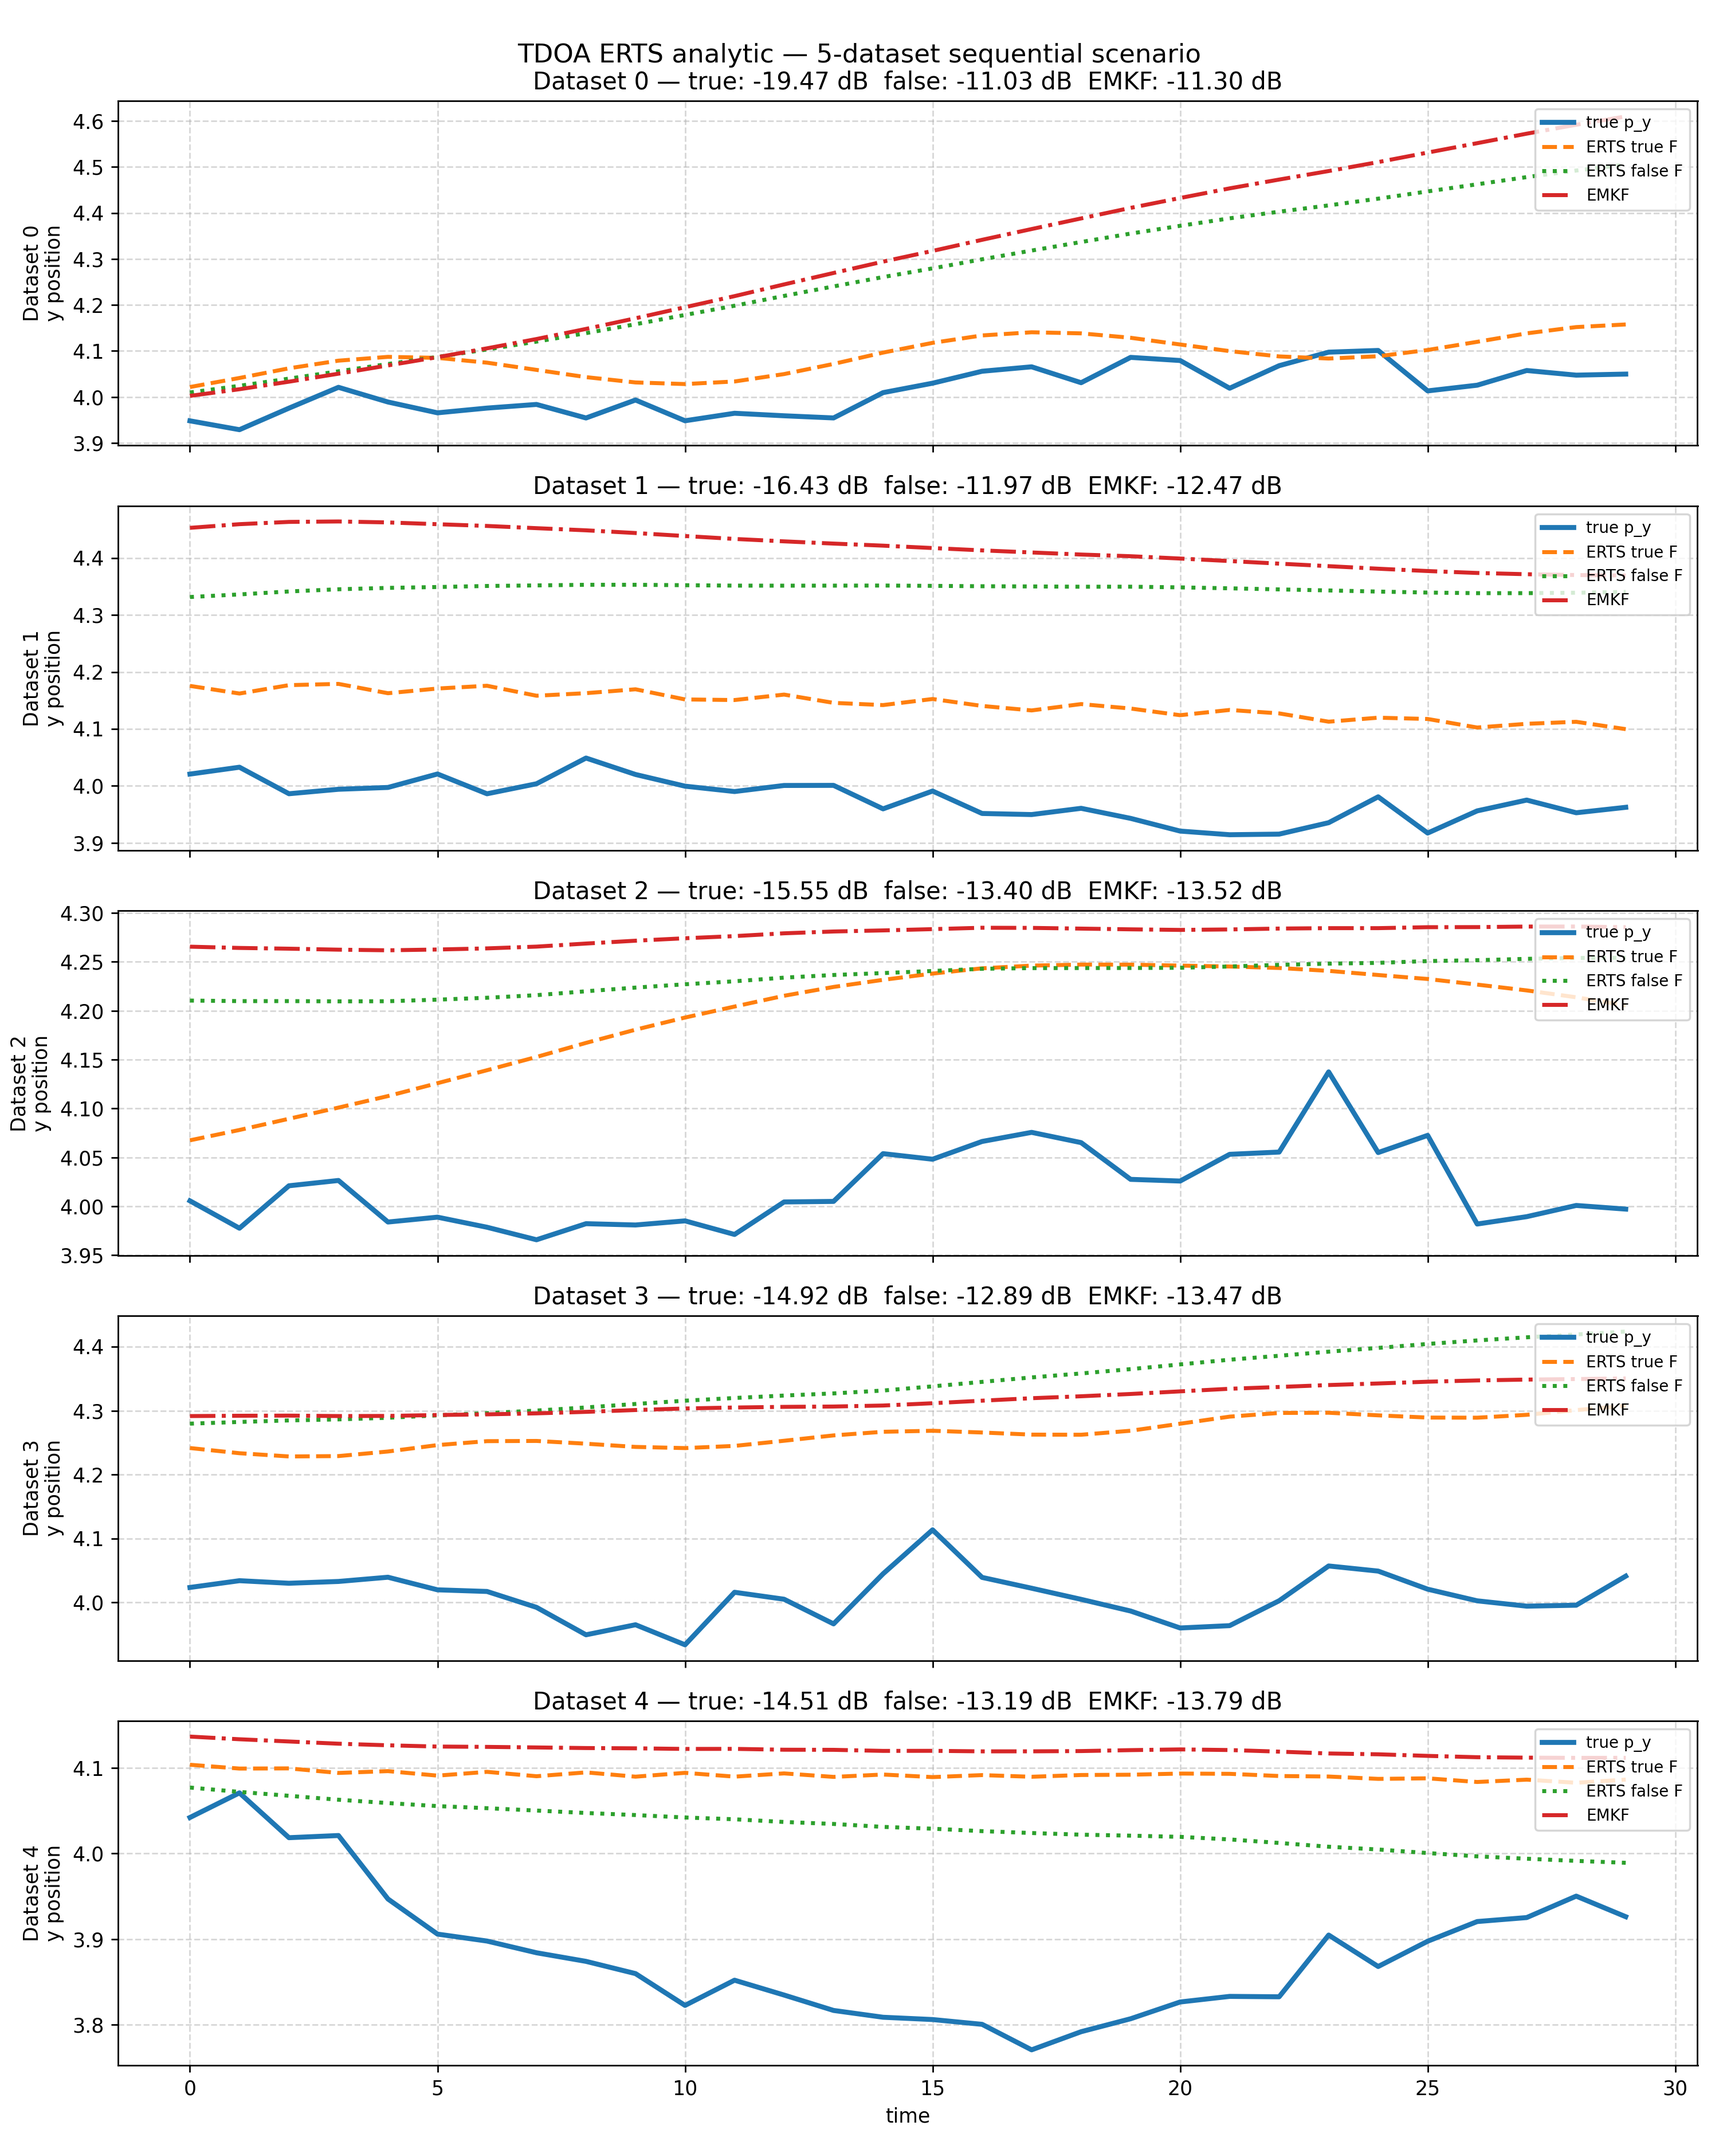
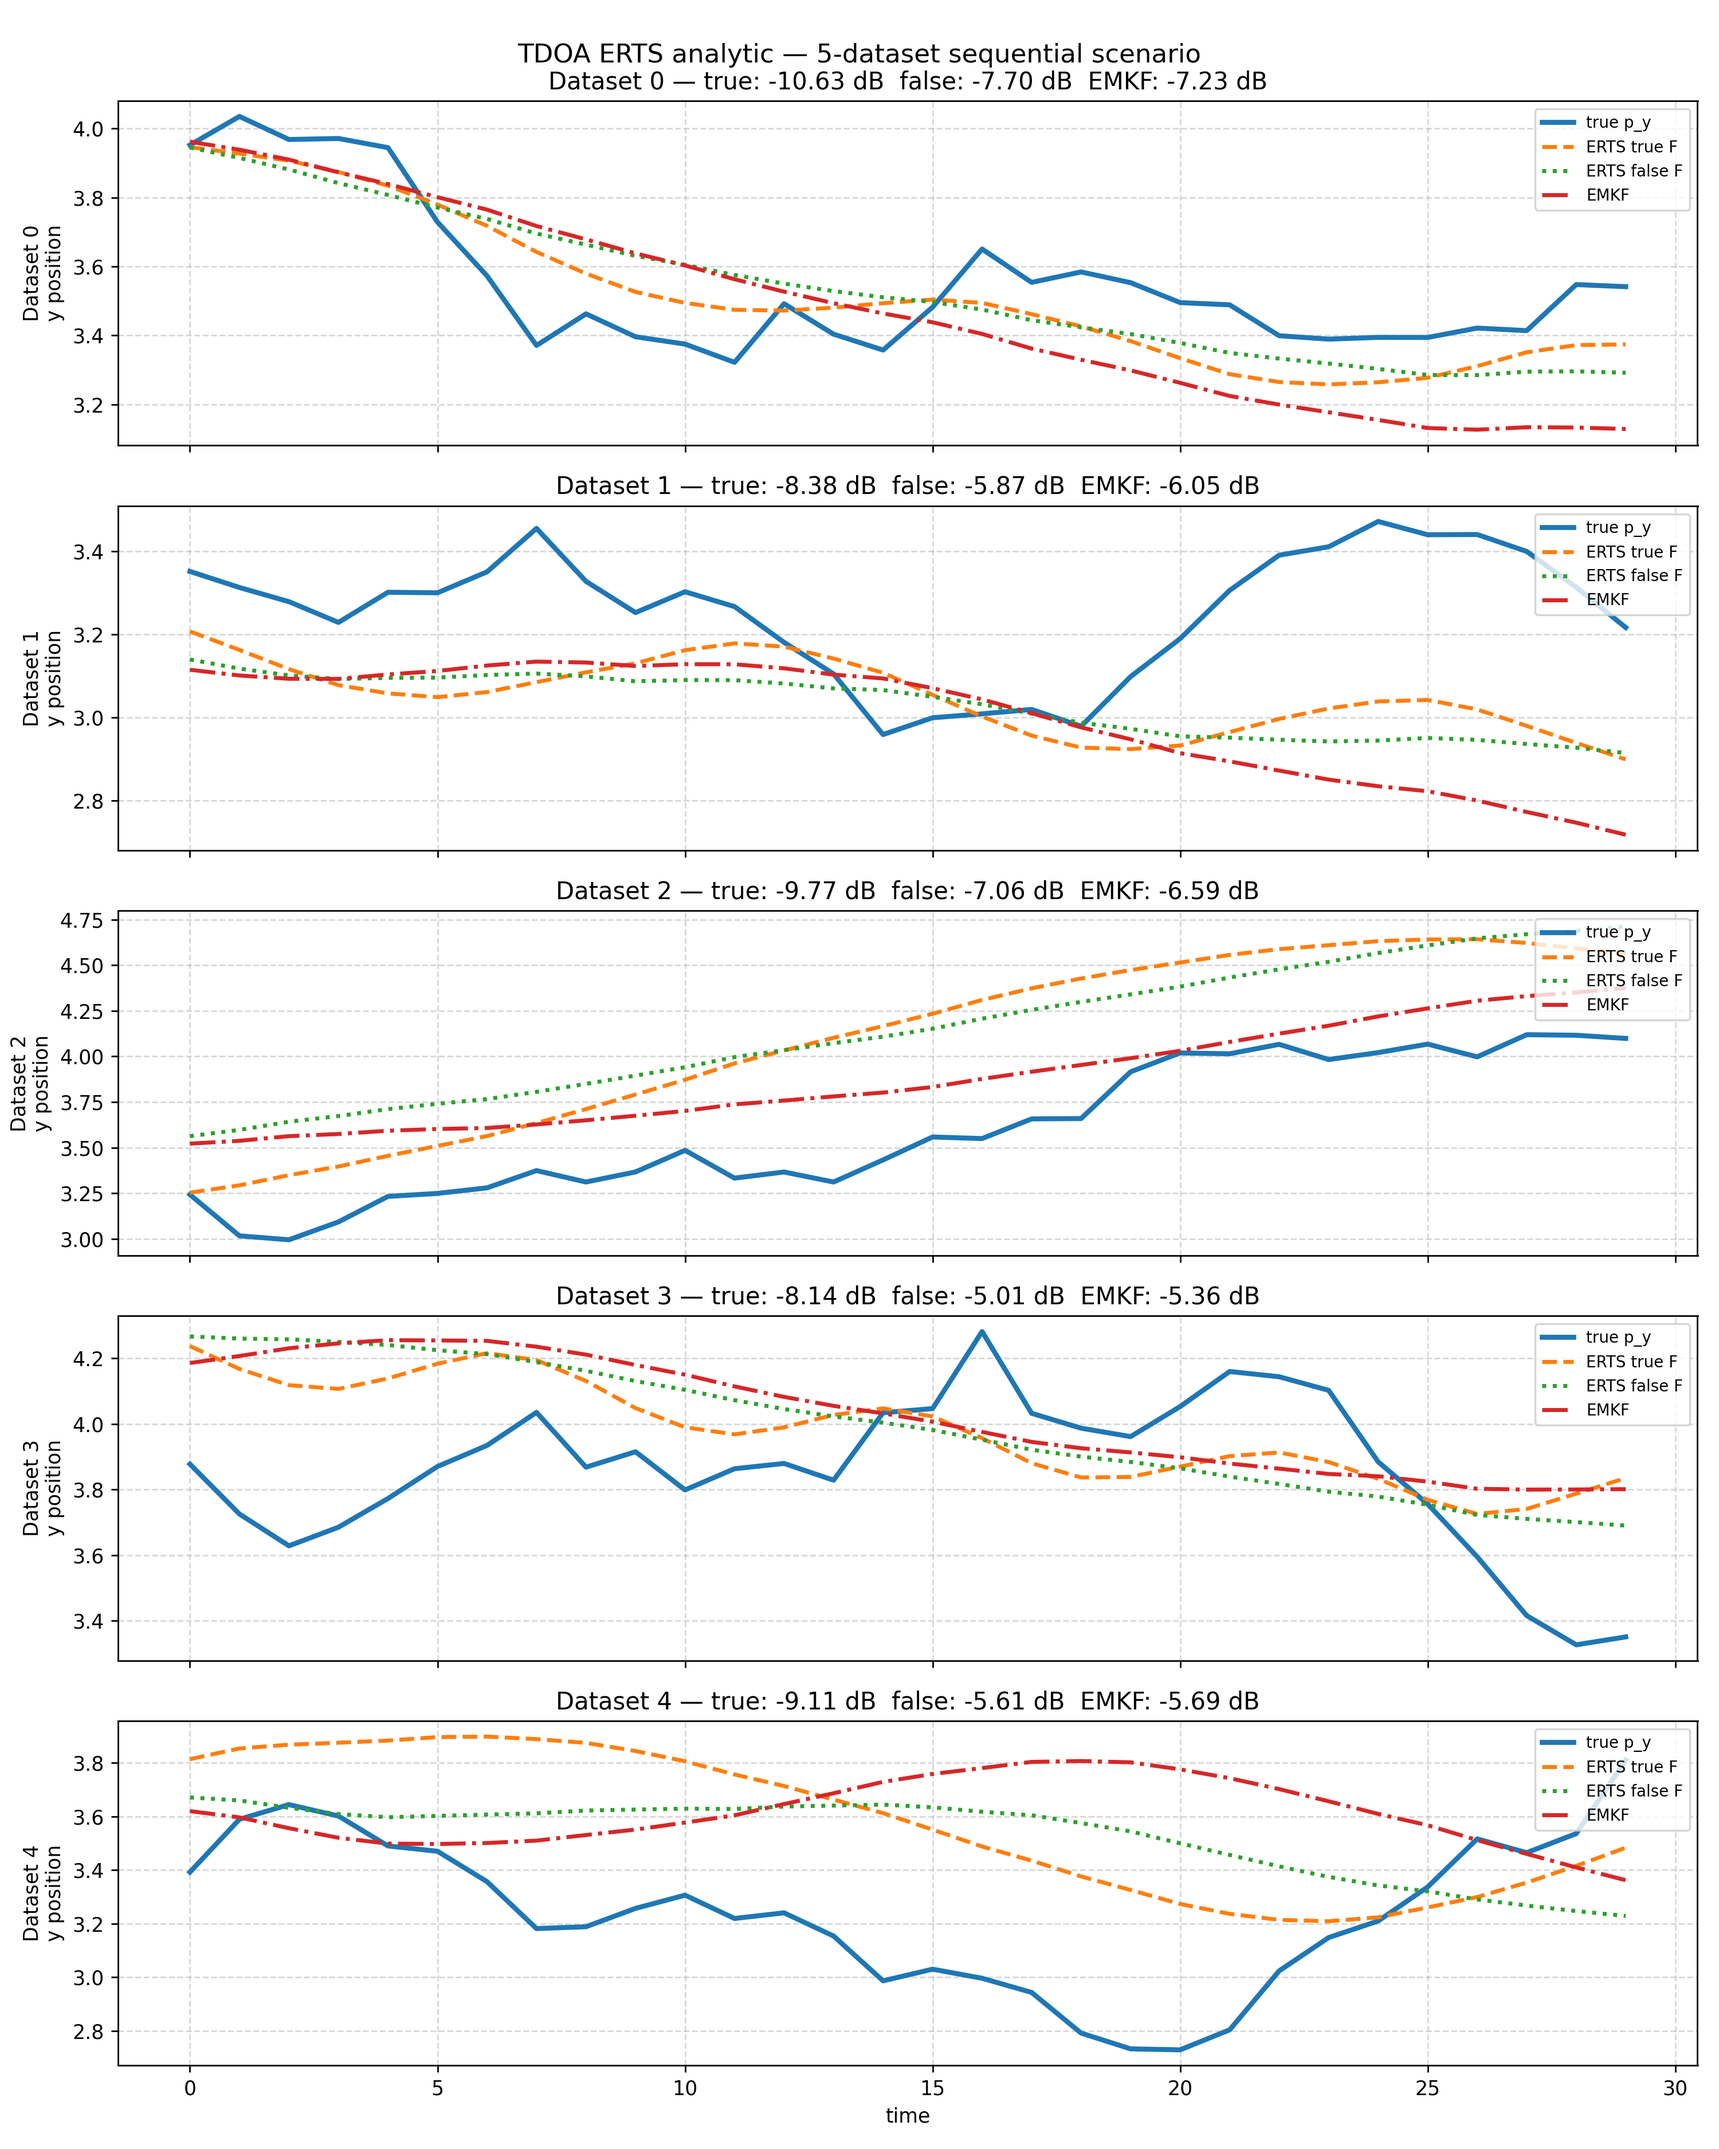
f

diff --git a/microphons_training_1_dataset.py b/microphons_training_1_dataset.py
@@ -216,11 +216,11 @@ RTSNet_Pipeline_true.setTrainingParams(args)
 print("Number of trainable parameters for RTSNet:",
       sum(p.numel() for p in RTSNet_model_true.parameters() if p.requires_grad))
 
-RTSNet_Pipeline_true.NNTrain(
-    sys_model_true, cv_input, cv_target, train_input, train_target,
-    destination_path_rtsnet_true,
-    generate_f=True,
-)
+# RTSNet_Pipeline_true.NNTrain(
+#     sys_model_true, cv_input, cv_target, train_input, train_target,
+#     destination_path_rtsnet_true,
+#     generate_f=True,
+# )
 
 [MSE_test_arr_true, MSE_test_avg_true, MSE_test_dB_avg_true,
  rtsnet_out_true, RunTime_true] = RTSNet_Pipeline_true.NNTest(
@@ -243,11 +243,11 @@ RTSNet_Pipeline_false.setTrainingParams(args)
 print("Number of trainable parameters for RTSNet:",
       sum(p.numel() for p in RTSNet_model_false.parameters() if p.requires_grad))
 
-RTSNet_Pipeline_false.NNTrain(
-    sys_model_false, cv_input, cv_target, train_input, train_target,
-    destination_path_rtsnet_false, load_model_path=destination_path_rtsnet_true,
-    generate_f=True,
-)
+# RTSNet_Pipeline_false.NNTrain(
+#     sys_model_false, cv_input, cv_target, train_input, train_target,
+#     destination_path_rtsnet_false, load_model_path=destination_path_rtsnet_true,
+#     generate_f=True,
+# )
 
 
 
@@ -272,20 +272,20 @@ print("||F_false - F_true||^2 =", diff.pow(2).mean().item(),
 
 num_em_iters = 2
 
-RTSNet_Pipeline_false.train_F_mstep_net(
-    sys_model_false,
-    cv_input,
-    cv_target,
-    train_input,
-    train_target,
-    destination_path_M=destination_path_M_F,
-    destination_path_RTS=destination_path_rtsnet_false,
-    load_destination_path_M=None,
-    num_em_iters=num_em_iters,
-    alpha=(0.3, 1.0, 0.85),
-    lambda_F=1e-3,
-    generate_f=True,
-)
+# RTSNet_Pipeline_false.train_F_mstep_net(
+#     sys_model_false,
+#     cv_input,
+#     cv_target,
+#     train_input,
+#     train_target,
+#     destination_path_M=destination_path_M_F,
+#     destination_path_RTS=destination_path_rtsnet_false,
+#     load_destination_path_M=None,
+#     num_em_iters=num_em_iters,
+#     alpha=(0.3, 1.0, 0.85),
+#     lambda_F=1e-3,
+#     generate_f=True,
+# )
 
 [MSE_test_arr_mnet, MSE_test_avg_mnet, MSE_test_dB_avg_mnet,
  rtsnet_out_mnet, RunTime_mnet] = RTSNet_Pipeline_false.test_F_mstep_net(
@@ -304,21 +304,21 @@ RTSNet_Pipeline_false.train_F_mstep_net(
 #############################
 print("\nJoint training: RTSNet + MNet F together")
 
-RTSNet_Pipeline_false.train_joint_F_mstep_net(
-    sys_model_false,
-    cv_input,
-    cv_target,
-    train_input,
-    train_target,
-    destination_path_M=destination_path_M_F_joint,
-    destination_path_RTS=destination_path_rtsnet_jointF,
-    load_destination_path_RTS=destination_path_rtsnet_false,
-    load_destination_path_M=destination_path_M_F,
-    num_em_iters=num_em_iters,
-    alpha=(0.3, 1.0),
-    lambda_F=1e-3,
-    generate_f=True,
-)
+# RTSNet_Pipeline_false.train_joint_F_mstep_net(
+#     sys_model_false,
+#     cv_input,
+#     cv_target,
+#     train_input,
+#     train_target,
+#     destination_path_M=destination_path_M_F_joint,
+#     destination_path_RTS=destination_path_rtsnet_jointF,
+#     load_destination_path_RTS=destination_path_rtsnet_false,
+#     load_destination_path_M=destination_path_M_F,
+#     num_em_iters=num_em_iters,
+#     alpha=(0.3, 1.0),
+#     lambda_F=1e-3,
+#     generate_f=True,
+# )
 
 [MSE_test_arr_joint, MSE_test_avg_joint, MSE_test_dB_avg_joint,
  rtsnet_out_joint, RunTime_joint] = RTSNet_Pipeline_false.test_F_mstep_net(

diff --git a/microphons_analitics_test.py b/microphons_analitics_test.py
@@ -18,11 +18,10 @@ import matplotlib.pyplot as plt
 
 from Simulations.Extended_sysmdl import SystemModel
 from Simulations.TDOA_2D.parameters import (
-    m, n, Q, R,
+    m, n,
     m1x_0, m2x_0, M_mics,
-    f, h,
+    f, h, make_F_block,
     generate_dataset_random_theta,
-    generate_false_F_list,
 )
 from Simulations.TDOA_2D.ekf_erts import (
     run_ekf_erts, compute_cross_covariances,
@@ -37,8 +36,7 @@ T           = 30
 N_T         = 100          # number of test sequences
 max_em_iter = 10
 
-theta_true_max  = 0.4      # true  F drawn Uniform(-theta_true_max/2,  +theta_true_max/2)
-theta_false_max = 2.0      # false F = true_theta + Uniform(-theta_false_max/2, +theta_false_max/2)
+theta_true_max  = 0.8      # true  F drawn Uniform(-theta_true_max/2, +theta_true_max/2)
 
 # ── Noise covariances ─────────────────────────────────────────────────────────
 Q_structure = torch.eye(m, dtype=torch.float32, device=device)
@@ -52,7 +50,7 @@ R  = r2 * R_structure
 print("=" * 60)
 print("2D TDOA tracking — analytic baselines averaged over sequences")
 print(f"  T={T}  N_T={N_T}  max_em_iter={max_em_iter}")
-print(f"  theta_true_max={theta_true_max} rad   theta_false_max={theta_false_max} rad")
+print(f"  theta_true_max={theta_true_max} rad   theta_false=0.0 rad (fixed)")
 print(f"  Microphones: {M_mics}   State dim: {m}   Obs dim: {n}")
 print("=" * 60)
 
@@ -66,10 +64,9 @@ print(f"\n[1/4] Generating {N_T} trajectories ...")
 inputs, targets, theta_list, F_true_list = generate_dataset_random_theta(
     N_T, T, theta_true_max, Q_gen=Q, R_gen=R
 )
-F_false_list = generate_false_F_list(theta_list, theta_false_max)
+F_false_list = [make_F_block(0.0) for _ in range(len(theta_list))]
 # inputs:  [N_T, n, T]
 # targets: [N_T, m, T]
-# F_true_list / F_false_list: one per group of 10
 
 print(f"  {N_T} sequences, one theta per sequence.")
 
@@ -154,7 +151,7 @@ x_plot_false, *_ = run_ekf_erts(obs0, get_F_f0, Q_in=Q, R_in=R)
 
 F_mat0, *_ = E_EMKF_F_analitic_non_linear_h(
     sys_model=sys_model,
-    F_0_matrices=[F_false_list[0].clone()],
+    F_0_matrices=[make_F_block(0.0)],
     h=h, Q=Q, R=R,
     Y=obs0.unsqueeze(0),
     x_0=m1x_0, P_0=m2x_0,

diff --git a/Simulations/TDOA_2D/parameters.py b/Simulations/TDOA_2D/parameters.py
@@ -27,7 +27,7 @@ M_mics  = 5           # number of microphones
 n  = M_mics - 1  # TDOA measurements per timestep (= 4)
 
 # ── Physical constants ────────────────────────────────────────────────────────
-dt      = 0.05   # time step
+dt      = 0.07   # time step
 c_sound = 1.0   # speed of sound (normalized)
 
 # ── Microphone positions on the x-axis (y = 0) ───────────────────────────────

diff --git a/microphons_test_analytic_3_dataset.py b/microphons_test_analytic_3_dataset.py
@@ -46,7 +46,7 @@ args.T_test = 30
 
 T_test = args.T_test
 
-q2 = 0.001
+q2 = 0.01
 r2 = 1
 
 cycle              = 5
@@ -113,7 +113,7 @@ _colors = ['tab:blue', 'tab:orange', 'tab:green', 'tab:red', 'tab:purple',
            'tab:brown', 'tab:pink', 'tab:gray', 'tab:olive', 'tab:cyan']
 
 print("\nPlotting sequences 0-2 across all datasets ...")
-for seq_idx in range(3):
+for seq_idx in range(10):
     fig = plt.figure(figsize=(16, 12))
     ax_traj = fig.add_subplot(2, 2, 1)
     ax_pos  = fig.add_subplot(2, 2, 2)
